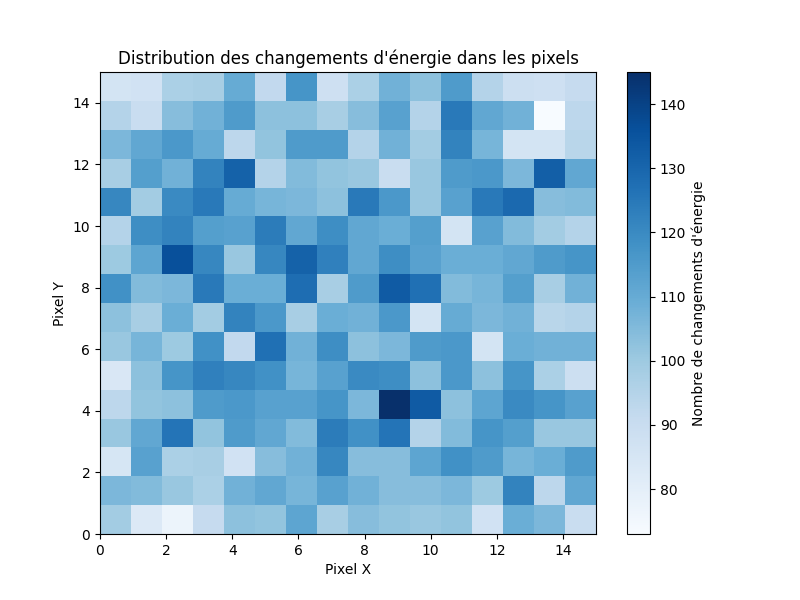
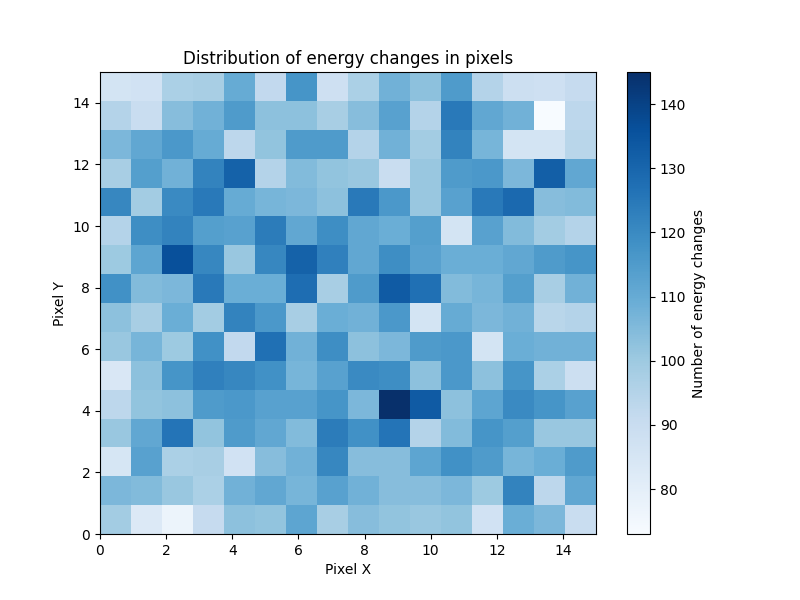
feat:add_time_histo

Changed region(s): [[0.1562, 0.09, 0.7188, 0.12], [0.8438, 0.3, 0.875, 0.72]]

diff --git a/src/studies/gamma_camera/particule_tracking/post.py b/src/studies/gamma_camera/particule_tracking/post.py
@@ -21,14 +21,15 @@ def in_camera(x_coord, y_coord, z_coord) :
     """
     Check if the coordinates are in the camera area
     """
-    return -LENGTH_DETECTOR/2 <= x_coord <= LENGTH_DETECTOR/2 and -LENGTH_DETECTOR/2 <= y_coord <= LENGTH_DETECTOR/2 and -DETECTOR_THICKNESS/2 <= z_coord <= DETECTOR_THICKNESS/2
+    return -LENGTH_DETECTOR/2 <= y_coord <= LENGTH_DETECTOR/2 and -LENGTH_DETECTOR/2 <= z_coord <= LENGTH_DETECTOR/2 and -DETECTOR_THICKNESS/2 <= x_coord <= DETECTOR_THICKNESS/2
 
 
 tracks_data = {}
 
 tracks = openmc.Tracks('tracks.h5')
 # tracks.plot()
-# track_in_cdte = tracks.filter(state_filter=lambda s:s['material_id'] == 5)
+track_in_cdte = tracks.filter(state_filter=lambda s:s['material_id'] == 5)
+tracks = track_in_cdte
 
 energy_change_positions = []
 energy_loss_values_tot = []
@@ -38,8 +39,8 @@ mult = []
 xs = []
 ys = []
 zs = []
-x_pixel = []
-y_pixel = []
+pixels = []  # List to store pixel coordinates
+time = []
 history_number = []
 
 for i in range(len(tracks)) : 
@@ -55,15 +56,18 @@ for i in range(len(tracks)) :
             history_number.append(i)
 
             pos = states['r'][idx]
+
             # save in an arrat the position of the energy change
             # get the energy loss in the cell 
             energy_loss += np.abs(E[idx] - E[idx-1])
+            
             xs.append(pos['x'])
             ys.append(pos['y'])
             zs.append(pos['z'])
+            time.append(states['time'][idx])
             # récupère les coordonnées des pixels pour chaque énergie déposée
-            x_pixel.append(num_pixel(ys[-1], zs[-1])[0])
-            y_pixel.append(num_pixel(ys[-1], zs[-1])[1])
+            pixels.append(num_pixel(ys[-1], zs[-1]))
+
             # if x_pixel[i]
             mult_value += 1
 
@@ -72,6 +76,8 @@ for i in range(len(tracks)) :
             energy_loss_values.append(np.abs(E[idx] - E[idx-1]))
         # Add the energy loss value to the list, repeated x times (x = last value of mult)
         for _ in range((mult[-1])):
+          # get the number of different pixels from the last values from the array pixels
+           
           energy_loss_values_tot.append(energy_loss)
     else:   
         pass
@@ -87,20 +93,29 @@ mult = np.array(mult)
 history_number = np.array(history_number)
 energy_loss_values = np.array(energy_loss_values)
 energy_loss_values_tot = np.array(energy_loss_values_tot)
-# non_null_energy_loss = energy_loss_values[energy_loss_values != 0]
-energy_loss_values_tot_mult_1 = energy_loss_values_tot[mult == 1]
-energy_loss_values_tot_mult_2 = energy_loss_values_tot[mult == 2]
-energy_loss_values_tot_mult_3 = energy_loss_values_tot[mult == 3]
+pixels_array = np.array(pixels)
+time = np.array(time)
+
+mask_mult_1 = (mult == 1)
+mask_mult_2 = (mult == 2)
+mask_mult_3 = (mult == 3)
+
+# non_null_energy_loss = energy_loss_values[en ergy_loss_values != 0]
+energy_loss_values_tot_mult_1 = energy_loss_values_tot[mask_mult_1]
+energy_loss_values_tot_mult_2 = energy_loss_values_tot[mask_mult_2]
+energy_loss_values_tot_mult_3 = energy_loss_values_tot[mask_mult_3]
 # prendre une valeur sur deux de energy_loss_values_mult_2
 energy_loss_values_tot_mult_2 = energy_loss_values_tot_mult_2[::2]
 energy_loss_values_tot_mult_3 = energy_loss_values_tot_mult_3[::3]
 # plot the energy change positions
-
 energy_loss_mult_2 = energy_loss_values[mult == 2]
 
 # Efficiently extract first and second energy losses for multiplicity 2 events
-mask_mult_2 = (mult == 2)
+
 energy_loss_mult_2 = energy_loss_values[mask_mult_2]
+
+time_mult_2 = time[mask_mult_2]
+time_mult_1 = time[mask_mult_1]
 
 # Reshape to (N, 2) where N is the number of multiplicity 2 events
 energy_pairs = energy_loss_mult_2.reshape(-1, 2)
@@ -110,10 +125,10 @@ second_energy = energy_pairs[:, 1]
 # plot the first energt vs second energy in a 2D histogram with 50, 50 bins
 plt.figure(figsize=(8, 6))
 plt.hist2d(first_energy/1e6, second_energy/1e6, bins=(50, 50), cmap='Blues', norm=LogNorm())
-plt.colorbar(label='Nombre de changements d\'énergie')
-plt.xlabel('Première perte d\'énergie [MeV]')
-plt.ylabel('Deuxième perte d\'énergie [MeV]')
-plt.title('Distribution des pertes d\'énergie pour les événements de multiplicité 2')
+plt.colorbar(label='Number of energy changes')
+plt.xlabel('First energy loss [MeV]')
+plt.ylabel('Second energy loss [MeV]')
+plt.title('Distribution of energy losses for multiplicity 2 events')
 plt.xlim(0, 0.7)
 plt.ylim(0, 0.7)
 plt.grid(axis='both', linestyle='--', alpha=0.6)
@@ -121,33 +136,24 @@ plt.tight_layout()
 plt.savefig("first_second_energy_mult_2.png")
 plt.show()
 
-fig = plt.figure()
-ax = fig.add_subplot(111, projection='3d')
-ax.scatter(xs, ys, zs, s=1)
-ax.set_xlabel('x (cm)')
-ax.set_ylabel('y (cm)')
-ax.set_zlabel('z (cm)')
-ax.set_title('Positions des changements d\'énergie')
-plt.show()
-
-PIXELS_X = num_pixel(ys, zs)[0]
-PIXELS_Y = num_pixel(ys, zs)[1]
+PIXELS_X = pixels_array[:, 0]
+PIXELS_Y = pixels_array[:, 1]
 
 plt.figure(figsize=(8, 6))
 plt.hist2d(PIXELS_X, PIXELS_Y, bins=(16, 16), cmap='Blues')
-plt.colorbar(label='Nombre de changements d\'énergie')
+plt.colorbar(label='Number of energy changes')
 plt.xlabel('Pixel X')
 plt.ylabel('Pixel Y')
-plt.title('Distribution des changements d\'énergie dans les pixels')
+plt.title('Distribution of energy changes in pixels')
 plt.savefig("histo_pixel.png")
 plt.show()
 
 plt.figure(figsize=(8, 6))
 plt.hist(energy_loss_values_tot/1e6, bins=100, color='mediumseagreen', edgecolor='black', alpha=0.8)
 plt.yscale("log")
-plt.xlabel("Energie [MeV]")
-plt.ylabel("Nombre de coups")
-plt.title("Spectre d'énergie")
+plt.xlabel("Energy [MeV]")
+plt.ylabel("Number of events")
+plt.title("Energy spectrum")
 plt.grid(axis='y', linestyle='--', alpha=0.6)
 plt.tight_layout()
 plt.savefig("spectrum_energy.png")
@@ -155,18 +161,38 @@ plt.show()
 
 plt.figure(figsize=(8, 6))
 bins = np.linspace(0, 1, 101)  # 50 bins between 0 and 1 MeV
-plt.hist(energy_loss_values_tot_mult_1/1e6, bins=bins, color='mediumseagreen', edgecolor='black', alpha=0.8, label='Multiplicité 1', histtype='stepfilled')
-plt.hist(energy_loss_values_tot_mult_2/1e6, bins=bins, color='royalblue', edgecolor='black', alpha=0.6, label='Multiplicité 2', histtype='stepfilled')
-plt.hist(energy_loss_values_tot_mult_3/1e6, bins=bins, color='orange', edgecolor='black', alpha=0.5, label='Multiplicité 3', histtype='stepfilled')
+plt.hist(energy_loss_values_tot_mult_1/1e6, bins=bins, color='mediumseagreen', edgecolor='black', alpha=0.8, label='Multiplicity 1', histtype='stepfilled')
+plt.hist(energy_loss_values_tot_mult_2/1e6, bins=bins, color='royalblue', edgecolor='black', alpha=0.6, label='Multiplicity 2', histtype='stepfilled')
+plt.hist(energy_loss_values_tot_mult_3/1e6, bins=bins, color='orange', edgecolor='black', alpha=0.5, label='Multiplicity 3', histtype='stepfilled')
 plt.yscale("log")
-plt.xlabel("Energie [MeV]")
-plt.ylabel("Nombre de coups")
-plt.title("Spectres d'énergie par multiplicité")
+plt.xlabel("Energy [MeV]")
+plt.ylabel("Number of events")
+plt.title("Energy spectra by multiplicity")
 plt.grid(axis='y', linestyle='--', alpha=0.6)
 plt.legend()
 plt.xlim(-0.05, 0.8)
 plt.tight_layout()
 plt.savefig("spectrum_energy_multiplicity.png")
+plt.show()
+
+time_diff_mult_2 = time_mult_2[1::2] - time_mult_2[::2]
+
+fig, axs = plt.subplots(2, 1, figsize=(8, 10))
+
+# First subplot: histogram of time_mult_2
+axs[0].hist(time_mult_2*1E9, bins=100, color='royalblue', edgecolor='black', alpha=0.8, label='Multiplicity 2')
+axs[0].set_xlabel("Time [ns]")
+axs[0].set_ylabel("Number of events")
+axs[0].set_title("Time distribution for multiplicity 2")
+axs[0].legend()
+
+# Second subplot: histogram of time differences
+axs[1].hist(time_diff_mult_2*1E9, bins=100, color='mediumseagreen', edgecolor='black', alpha=0.8)
+axs[1].set_xlabel("Time difference [ns]")
+axs[1].set_ylabel("Number of events")
+axs[1].set_title("Distribution of time differences between the first and second interaction\nfor multiplicity 2")
+
+plt.tight_layout()
 plt.show()
 
 
